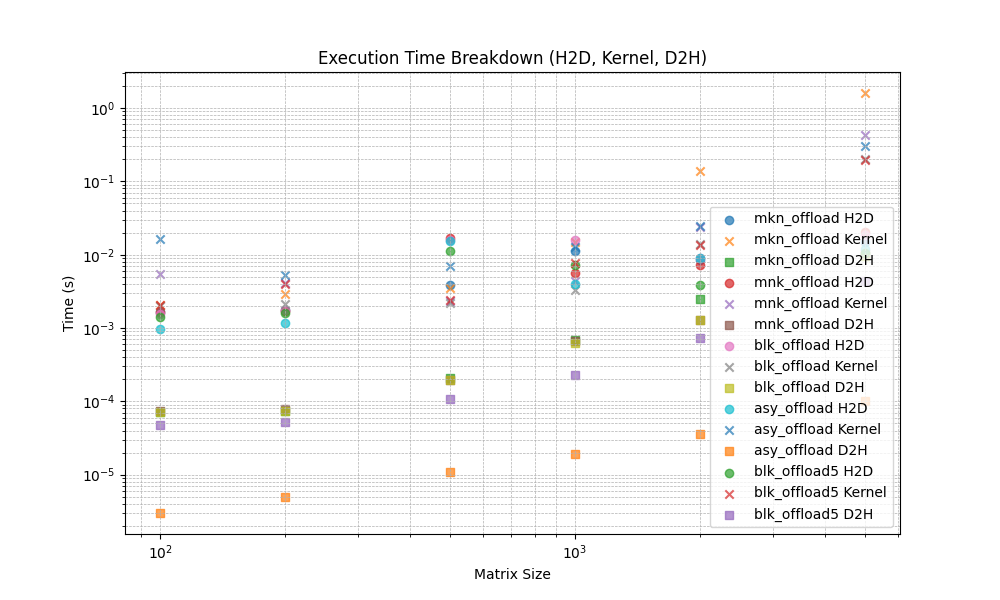
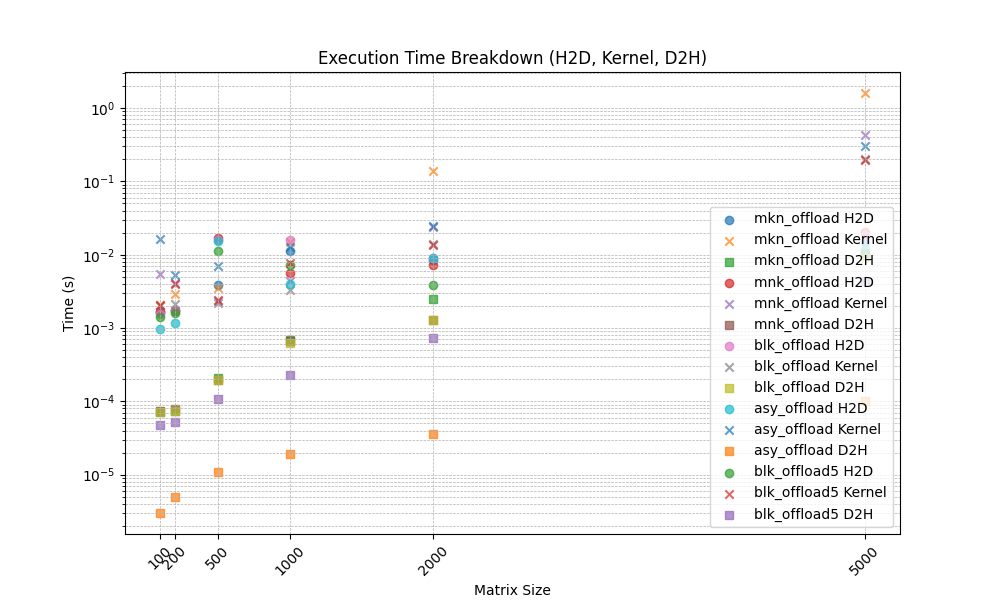
feat: everything

diff --git a/h2d2h.py b/h2d2h.py
@@ -1,0 +1,53 @@
+import pandas as pd
+import matplotlib.pyplot as plt
+import numpy as np
+
+# Load data
+file_path = "offload_performance_resultsnumber2real.csv"
+df = pd.read_csv(file_path, delimiter=",")
+
+# Strip any leading/trailing spaces from column names
+df.columns = df.columns.str.strip()
+
+# Compute total execution time and data transfer overhead
+df["Total Time"] = df["H2D (s)"] + df["Kernel (s)"] + df["D2H (s)"]
+df["Transfer Overhead (%)"] = (df["H2D (s)"] + df["D2H (s)"]) / df["Total Time"] * 100
+
+# Unique methods and sizes
+methods = df["Method"].unique()
+sizes = sorted(df["Size"].unique())
+
+# --- Scatter Plot for Execution Time Breakdown ---
+plt.figure(figsize=(10, 6))
+for method in methods:
+    subset = df[df["Method"] == method]
+    plt.scatter(subset["Size"], subset["H2D (s)"], label=f"{method} H2D", marker="o", alpha=0.7)
+    plt.scatter(subset["Size"], subset["Kernel (s)"], label=f"{method} Kernel", marker="x", alpha=0.7)
+    plt.scatter(subset["Size"], subset["D2H (s)"], label=f"{method} D2H", marker="s", alpha=0.7)
+
+plt.xlabel("Matrix Size")
+plt.ylabel("Time (s)")
+plt.legend()
+plt.title("Execution Time Breakdown (H2D, Kernel, D2H)")
+plt.xticks(sizes, labels=[str(size) for size in sizes], rotation=45)  # Rotate for better visibility
+plt.yscale("log")  # Keep log scale for better visibility
+plt.grid(True, which="both", linestyle="--", linewidth=0.5)
+plt.savefig("scatter_time_breakdown.png")
+plt.show()
+
+# --- H2D and D2H Transfer Times ---
+plt.figure(figsize=(10, 6))
+for method in methods:
+    subset = df[df["Method"] == method]
+    plt.plot(subset["Size"], subset["H2D (s)"], marker="o", linestyle="-", label=f"{method} H2D")
+    plt.plot(subset["Size"], subset["D2H (s)"], marker="s", linestyle="--", label=f"{method} D2H")
+
+plt.xlabel("Matrix Size")
+plt.ylabel("Transfer Time (seconds)")
+plt.title("H2D and D2H Transfer Times for Offload Methods")
+plt.xticks(sizes, labels=[str(size) for size in sizes], rotation=45)
+plt.yscale("log")
+plt.grid(True, which="both", linestyle="--", linewidth=0.5)
+plt.legend()
+plt.savefig("transfer_times.png")
+plt.show()
